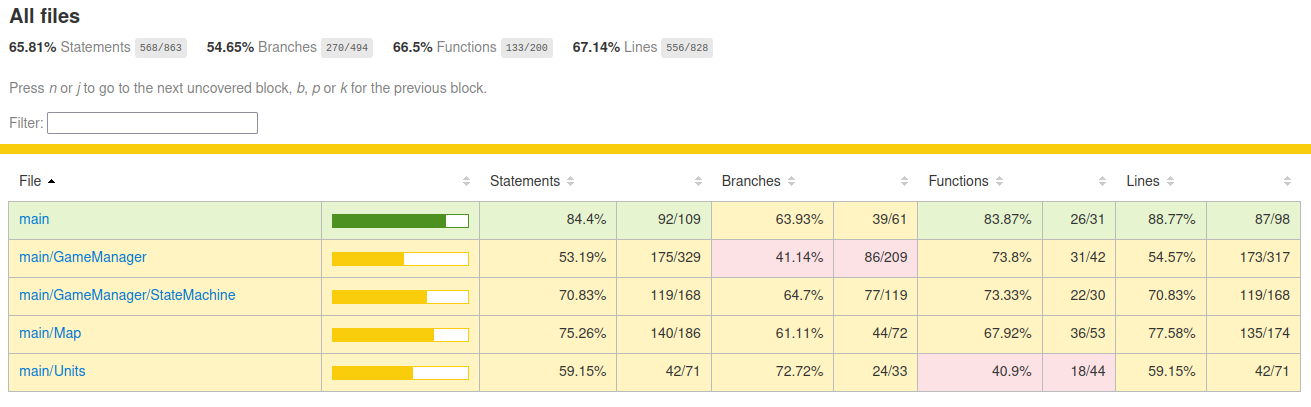
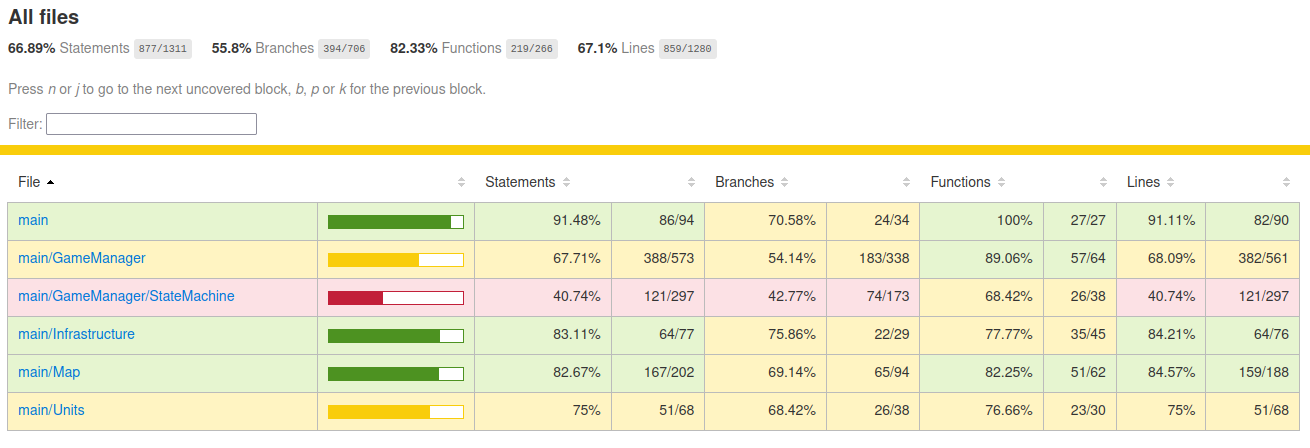
upadate coverage test

diff --git a/docs/report/tests.tex b/docs/report/tests.tex
@@ -402,7 +402,7 @@ Le framework \emph{NYC} nous permet de tester la couverture. Il faut lancer la c
 
 \begin{figure}[H]
     \centering
-    \includegraphics[scale=0.35]{data/couverture_test_1.jpg}
+    \includegraphics[scale=0.35]{data/couverture_test_1.png}
     \caption{Couverture générale du backend}
 \end{figure}
 
@@ -414,4 +414,5 @@ On peut voir le pourcentage de couverture de chaque fichier. On peut aussi aller
     \caption{Couverture d'un fichier}
 \end{figure}
 
-La couverture du code n'implique pas des tests de qualité. Après quelques recherches, nous avons trouvé qu'une couverture minimale de bonne qualité dépasse les 80\%. Nous nous sommes donc fixés d'au moins atteindre ce pourcentage.
+La couverture du code n'implique pas des tests de qualité. Après quelques recherches nous n'avons pas trouvé de ressource fiable, mais l'information qui ressortait le plus est qu'une bonne qualité de couverture dépasse les 80\%.
+Nous nous sommes donc fixés d'au moins atteindre ce pourcentage. Un fichier fausse notre {\tt coverage}, en effet nous ne testons pas main/GameManager/StateMachine/Command.ts car nous vérifions déjà dans le frontend que les commandes soumises aient les bons arguments.

diff --git a/docs/report/architecture_et_logiciel.tex b/docs/report/architecture_et_logiciel.tex
@@ -80,7 +80,7 @@ Dans les règles, il existe toutes les unités d'attaque qui se trouvent ci-dess
 \subsection{Service d'hébergement}
 
 Pour le service d'hébergement, nous avons utilisé le GitLab du CREMI comme demandé dans les consignes. Nous avons paramétré les pipelines pour qu'à chaque commit, il effectue les tests automatiquement pour aider à ne pas faire des commits complètement erronés.
-Si les tests ratent, alors un mail est envoyé à l'auteur du commit et le commit est marqué sur GitLab avec une croix rouge signifiant l'échec des tests Concernant les branches nous avons divisé le dépôt en quatre :
+Si les tests ratent, alors un mail est envoyé à l'auteur du commit et le commit est marqué sur GitLab avec une croix rouge signifiant l'échec des tests. Concernant les branches nous avons divisé le dépôt en quatre:
 \begin{itemize}
     \item main
     \item dev
